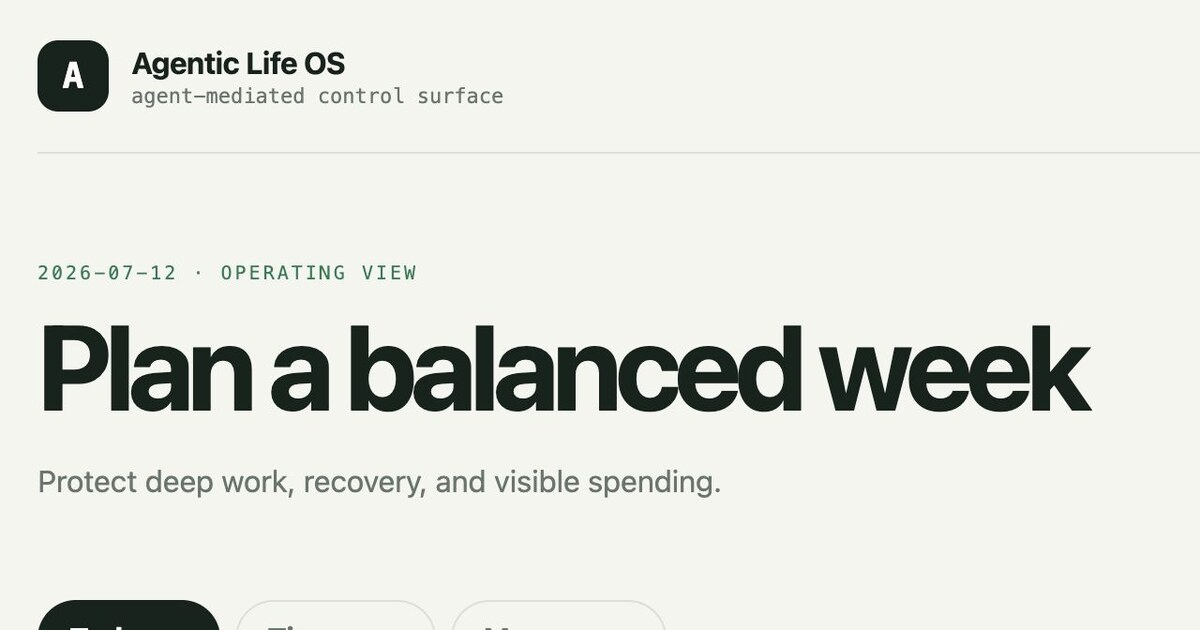
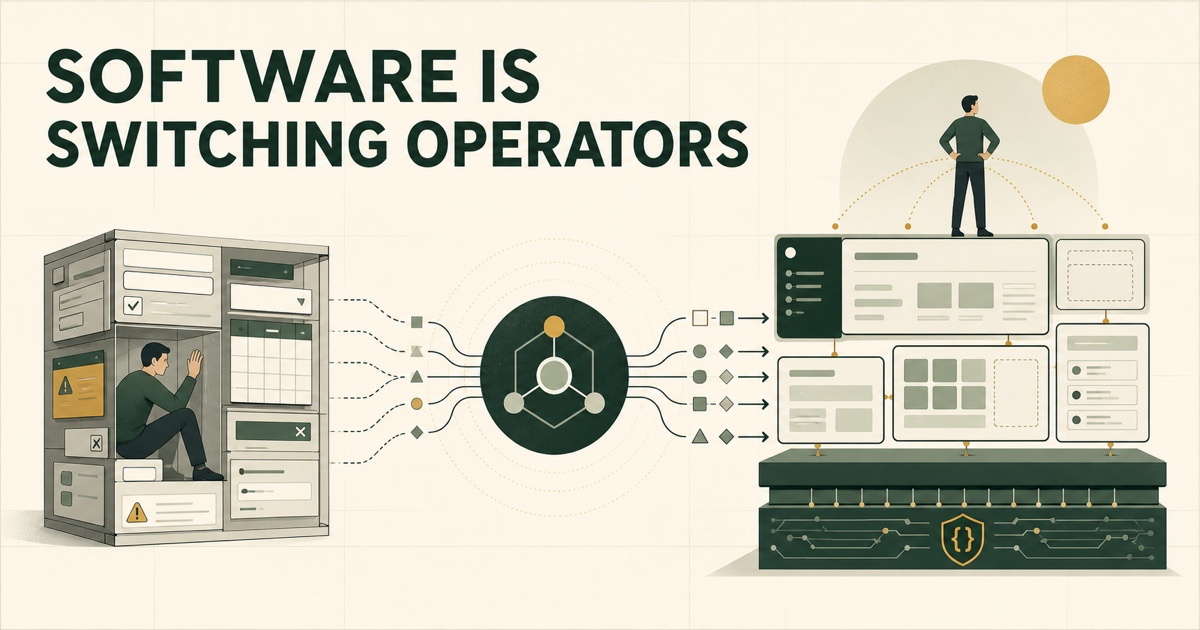
rewrite: frame life os as operator shift

diff --git a/docs/articles/agentic-life-os/index.html b/docs/articles/agentic-life-os/index.html
@@ -3,16 +3,16 @@
   <head>
     <meta charset="UTF-8" />
     <meta name="viewport" content="width=device-width, initial-scale=1.0" />
-    <title>The Interface Just Split in Two | Shawn Xiang</title>
-    <meta name="description" content="Agentic Life OS is an open-source experiment in prompt-based personal software: the human states intent, an agent operates the system, and the interface is reserved for observation and confirmation." />
-    <meta property="og:title" content="The Interface Just Split in Two" />
-    <meta property="og:description" content="Building a prompt-based personal OS where the agent handles input and the screen handles truth." />
+    <title>Software Is Switching Operators | Shawn Xiang</title>
+    <meta name="description" content="Software was designed for humans to operate through fixed interfaces. Agents change the division of labor: humans direct, agents operate, code enforces, and interfaces adapt." />
+    <meta property="og:title" content="Software Is Switching Operators" />
+    <meta property="og:description" content="Humans direct. Agents operate. Code enforces. Interfaces adapt." />
     <meta property="og:type" content="article" />
     <meta property="og:url" content="https://shawnxiang.com/articles/agentic-life-os/" />
     <meta property="og:image" content="https://shawnxiang.com/articles/agentic-life-os/images/cover.jpg" />
     <meta property="og:image:width" content="1200" />
     <meta property="og:image:height" content="630" />
-    <meta property="og:image:alt" content="Agentic Life OS synthetic Today dashboard showing the daily focus and the Today, Time, and Money modules." />
+    <meta property="og:image:alt" content="Software Is Switching Operators: humans direct, agents operate, code enforces, and interfaces adapt." />
     <meta name="twitter:card" content="summary_large_image" />
     <meta name="twitter:image" content="https://shawnxiang.com/articles/agentic-life-os/images/cover.jpg" />
     <link rel="icon" type="image/svg+xml" href="../../assets/favicon.svg" />
@@ -130,6 +130,46 @@
         width: min(1180px, calc(100% - 48px));
         margin: 0 auto 58px;
       }
+      .operator-map {
+        position: relative;
+        overflow: hidden;
+        display: grid;
+        grid-template-columns: minmax(0, .86fr) 84px minmax(0, 1.14fr);
+        gap: 22px;
+        align-items: stretch;
+        padding: 34px;
+        border: 1px solid var(--line);
+        border-radius: 26px;
+        background:
+          radial-gradient(circle at 82% 15%, rgba(47,118,85,.17), transparent 32%),
+          var(--paper);
+        box-shadow: 0 30px 90px -48px rgba(19,38,29,.55);
+      }
+      .era {
+        display: flex;
+        flex-direction: column;
+        gap: 12px;
+        padding: 24px;
+        border: 1px solid var(--line);
+        border-radius: 20px;
+        background: rgba(245,246,239,.66);
+      }
+      .era.new { background: rgba(47,118,85,.065); border-color: rgba(47,118,85,.24); }
+      .era-label { color: var(--faint); font: 500 .7rem var(--font-mono); letter-spacing: .1em; text-transform: uppercase; }
+      .era h2 { font: 700 1.35rem/1.2 var(--font-display); letter-spacing: -.02em; }
+      .node {
+        padding: 14px 15px;
+        border: 1px solid var(--line);
+        border-radius: 13px;
+        background: var(--paper);
+      }
+      .node b { display: block; font: 700 .94rem var(--font-display); }
+      .node span { display: block; color: var(--muted); font-size: .8rem; line-height: 1.45; margin-top: 3px; }
+      .node.human { border-color: rgba(215,165,63,.5); }
+      .node.agent { color: var(--paper); background: var(--accent); border-color: var(--accent); }
+      .node.agent span { color: rgba(255,255,255,.74); }
+      .map-arrow { display: grid; place-items: center; color: var(--accent); font: 500 1.55rem var(--font-mono); }
+      .map-arrow span { display: grid; place-items: center; width: 54px; height: 54px; border: 1px solid rgba(47,118,85,.25); border-radius: 50%; background: var(--accent-soft); }
       figure { margin: 0; }
       figure img {
         display: block;
@@ -257,6 +297,8 @@
         .hero { grid-template-columns: 1fr; padding-top: 62px; }
         .shell { grid-template-columns: 1fr; gap: 26px; }
         .toc { position: static; }
+        .operator-map { grid-template-columns: 1fr; }
+        .map-arrow span { transform: rotate(90deg); }
       }
       @media (max-width: 640px) {
         .nav-inner, .hero, .shell { width: calc(100% - 32px); }
@@ -276,16 +318,16 @@
         <div class="nav-links">
           <a href="../../">Home</a>
           <a href="https://github.com/qilinxiaoxiang/agentic-life-os">Code</a>
-          <a href="#try">Try it</a>
+          <a href="#proof">Proof</a>
         </div>
       </div>
     </nav>
 
     <header class="hero">
       <div>
-        <div class="eyebrow">Field Note · Agent-Mediated Software</div>
-        <h1>The Interface Just Split in Two</h1>
-        <p class="dek">Building a prompt-based personal operating system where the agent handles input and the screen handles truth.</p>
+        <div class="eyebrow">Field Note · A New Software Contract</div>
+        <h1>Software Is Switching Operators</h1>
+        <p class="dek">For decades, people operated software through interfaces someone else designed. Agents change the division of labor: humans direct, agents operate, code enforces, and interfaces adapt.</p>
         <div class="meta">
           <span class="pill">Shawn Xiang</span>
           <span class="pill">July 12, 2026</span>
@@ -293,147 +335,159 @@
         </div>
       </div>
       <aside class="split-card" aria-label="The new division of labor">
-        <h2>One system, three jobs</h2>
-        <div class="split-row"><div class="num">01</div><div><b>Human states intent</b><span>Natural language stays flexible and personal.</span></div></div>
-        <div class="split-row"><div class="num">02</div><div><b>Agent operates</b><span>Intent becomes typed, inspectable operations.</span></div></div>
-        <div class="split-row"><div class="num">03</div><div><b>Application holds truth</b><span>Code validates, stores, renders, and enforces consent.</span></div></div>
+        <h2>The new division of labor</h2>
+        <div class="split-row"><div class="num">01</div><div><b>Human directs</b><span>Set intent, judge outcomes, retain authority.</span></div></div>
+        <div class="split-row"><div class="num">02</div><div><b>Agent operates</b><span>Translate intent into structured operations.</span></div></div>
+        <div class="split-row"><div class="num">03</div><div><b>Code enforces</b><span>Protect state, permissions, and invariants.</span></div></div>
+        <div class="split-row"><div class="num">04</div><div><b>Interface adapts</b><span>Show the view this person needs now.</span></div></div>
       </aside>
     </header>
 
-    <section class="cover" aria-label="Agentic Life OS Today view">
-      <figure>
-        <img src="images/today.jpg" alt="Synthetic Agentic Life OS Today dashboard with one focus, four actionables, and Today, Time, and Money tabs." width="1280" height="978" loading="eager" />
-        <figcaption>Agentic Life OS running with synthetic demo data. This is not my personal Today Portal.</figcaption>
-      </figure>
+    <section class="cover" aria-label="The shift from human-operated interfaces to agent-operated software">
+      <div class="operator-map">
+        <div class="era">
+          <div class="era-label">The old contract</div>
+          <h2>Human-operated software</h2>
+          <div class="node human"><b>Human as operator</b><span>Navigate menus, translate reality into fields, recover from validation errors.</span></div>
+          <div class="node"><b>Fixed interface</b><span>Every permitted path was anticipated by a product team.</span></div>
+          <div class="node"><b>Application logic</b><span>Accept only the inputs the interface knows how to collect.</span></div>
+        </div>
+        <div class="map-arrow" aria-hidden="true"><span>→</span></div>
+        <div class="era new">
+          <div class="era-label">The emerging contract</div>
+          <h2>Agent-operated software</h2>
+          <div class="node human"><b>Human as commander</b><span>Define intent, reshape the system, approve consequential outcomes.</span></div>
+          <div class="node agent"><b>Agent as operator</b><span>Interpret context and execute typed, inspectable operations.</span></div>
+          <div class="node"><b>Strict core + adaptive interface</b><span>Code guards truth; the dashboard changes with the person.</span></div>
+        </div>
+      </div>
     </section>
 
     <main class="shell">
       <aside class="toc" aria-label="Table of contents">
         <div class="toc-title">Contents</div>
-        <a href="#split">1. The split</a>
-        <a href="#prompt">2. Prompt-based, not prompt-only</a>
-        <a href="#product">3. Today, Time, Money</a>
-        <a href="#loop">4. The operating loop</a>
-        <a href="#adapt">5. A model that can change</a>
-        <a href="#try">6. Run it locally</a>
-        <a href="#boundary">7. The boundary</a>
+        <a href="#assumption">1. The hidden assumption</a>
+        <a href="#operators">2. Switching operators</a>
+        <a href="#validation">3. Validation changes jobs</a>
+        <a href="#malleable">4. The interface becomes malleable</a>
+        <a href="#proof">5. A real-life proof</a>
+        <a href="#authority">6. Operation, not authority</a>
       </aside>
 
       <article>
-        <p class="lead"><strong>For most of software history, one screen did two different jobs. It collected input from the human, then presented output back to the human. AI agents make that coupling optional.</strong></p>
+        <p class="lead"><strong>Modern software was built around one hidden assumption: the human is the operator.</strong></p>
 
-        <p>A personal finance app asks you to choose a category, enter an amount, pick an account, and submit a form. A time tracker asks you to translate a messy day into the fields its product manager anticipated. A task manager asks you to maintain its ontology before it can help you use it.</p>
+        <p>A product team decides which actions exist. Designers make those actions discoverable. Engineers guard every field. Then the user learns the menus, translates reality into the product's schema, and moves the system one click at a time.</p>
 
-        <p>The friction is not the click. The friction is the translation. The person has to convert life into the application's schema before the application can do anything useful.</p>
+        <p>That assumption is breaking. Agents can now read context, choose tools, execute multi-step work, and return only when a person needs to judge, approve, or redirect. <a href="https://www.microsoft.com/en-us/worklab/ai-at-work-when-softwares-biggest-users-are-not-human">Microsoft recently described the same shift in enterprise software</a>: the human states the goal; the agent becomes the operator.</p>
 
-        <div class="thesis"><strong>The old application used the page as the universal interface. The new application can split the interface in two: conversation for input; a visual surface for observation and confirmation.</strong></div>
+        <div class="thesis"><strong>The user is moving from operator of someone else's interface to commander of a system they can reshape.</strong></div>
 
-        <h2 id="split">1. The interface just split in two</h2>
+        <h2 id="assumption">1. The interface encoded somebody else's decisions</h2>
 
-        <p>I am using <strong>Agent-Mediated Software</strong> for a strict version of this pattern:</p>
+        <p>For thirty years, “good software” meant turning a product team's model into a path a human could successfully navigate. The date picker prevented an invalid date. The dropdown constrained the category. Required fields stopped incomplete submissions. Tooltips taught the user the product's vocabulary.</p>
+
+        <p>This solved a real problem. But it also fixed the relationship between people and software: <strong>the product defined the world; the person operated inside it.</strong></p>
+
+        <p>The deeper friction was never the click. It was the translation. Before the software could help, the person had to compress a messy situation into the fields, categories, and workflows somebody else had anticipated.</p>
+
+        <h2 id="operators">2. Software is switching operators</h2>
+
+        <p>Once an agent becomes capable of operating the system, the whole contract can be rearranged:</p>
 
         <div class="formula">
-          <div><b>Input</b><span>The human describes intent in natural language.</span></div>
-          <div><b>Translation</b><span>The agent resolves that intent into typed operations.</span></div>
-          <div><b>State</b><span>Deterministic code validates and stores the result.</span></div>
-          <div><b>Output</b><span>The visual interface shows state and asks for confirmation when a change is durable.</span></div>
+          <div><b>Human</b><span>Expresses intent, supplies judgment, and remains accountable for the outcome.</span></div>
+          <div><b>Agent</b><span>Interprets context and turns intent into typed, inspectable operations.</span></div>
+          <div><b>Code</b><span>Stores truth and enforces permissions, invariants, and transaction semantics.</span></div>
+          <div><b>Interface</b><span>Presents state, evidence, alternatives, and the moments that need human approval.</span></div>
         </div>
 
-        <p>This is not “no UI.” The screen still matters. It is simply released from being the only way into the system. It can concentrate on the things screens do well: comparison, legibility, overview, and consent.</p>
+        <p>The interface no longer has to be the universal input device. The agent can become the normal write path. The screen can focus on what screens are good at: overview, comparison, legibility, and consent.</p>
 
-        <p>The ingredients have clear predecessors. <a href="https://www.agent-native.com/docs/what-is-agent-native">Agent-native software</a> treats the agent and UI as partners over shared state. <a href="https://arxiv.org/abs/2606.03854">CLI-Anything</a> argues that agents need structured, deterministic control surfaces instead of brittle pixel imitation. The narrower experiment here is the division of labor: <strong>the agent is the normal write path; the portal is the observe-and-confirm path.</strong></p>
+        <p>This is larger than adding a conversational box to an existing product. A conversational box leaves the old software contract intact. Agent-operated software changes who does the operating.</p>
 
-        <h2 id="prompt">2. Prompt-based does not mean prompt-only</h2>
+        <h2 id="validation">3. Validation did not disappear. It disappeared from the user's job description.</h2>
 
-        <p>The tempting slogan is “personal software should become prompt-based instead of code-based.” The useful version is more precise.</p>
+        <p>Date rules, account semantics, permissions, idempotency, and transaction boundaries still matter. In consequential systems, they matter more than ever. But the user should not have to encounter every invariant as a required field, a disabled button, or an error message.</p>
 
-        <p><strong>Code moves inward.</strong> It owns schemas, validation, balances, time arithmetic, idempotency, and permission boundaries. <strong>Prompts move outward.</strong> They become the layer where a person expresses what happened, changes how the system models life, and asks the agent to adapt the product.</p>
+        <p>The agent can handle ordinary normalization: resolve a relative date, map an unfamiliar phrase to a known category, ask for the one missing fact, and retry a rejected operation safely. Deterministic code still decides what is valid. Ambiguity and consequential actions still return to the human.</p>
 
-        <p>That separation matters. I do not want financial history stored as chat. I want a strict ledger. I simply do not want to fill out the ledger by hand.</p>
+        <p><strong>Code does not disappear; it changes jobs.</strong> Less code is spent choreographing every click. More code is spent defining a strict operating core that both human and agent can trust.</p>
 
-        <p>It also changes who gets to shape the product. A traditional app can only present the categories, views, and workflows its product team predicted. An agent-mediated personal system can start from a small method and let each user ask for the categories, currencies, rankings, and views that make their own life legible. The underlying code remains constrained; the model around the person can evolve.</p>
+        <p>The old “foolproof UI” was designed to keep a human operator on a predefined path. The new guardrail is a typed operation with explicit permissions, a previewable effect, and a reversible or approved commit.</p>
 
-        <h2 id="product">3. A small test: Today, Time, and Money</h2>
+        <h2 id="malleable">4. The interface becomes malleable</h2>
 
-        <p>I extracted the idea into <a href="https://github.com/qilinxiaoxiang/agentic-life-os">Agentic Life OS</a>, a local-first open-source project with only three modules:</p>
+        <p>Traditional personalization means choosing among settings the product team decided to expose. The menu may be longer, but the product still owns the model.</p>
+
+        <p>An agent-operated system can let the user say: split this category, add another currency, rank my time a different way, merge these views, or build me a dashboard for this phase of my life. The interface stops being a finished artifact and becomes a current projection of the person's context.</p>
+
+        <p>This connects to <a href="https://www.inkandswitch.com/essay/malleable-software/">Ink &amp; Switch's work on malleable software</a>: tools should adapt to people with minimal friction, instead of forcing people to adapt their workflows to sealed applications. Agents can make that adaptation available at the point of use.</p>
+
+        <p>The user should not become the full-time gardener of a private software fork. The stable core remains shared and rigorous. The flexible layer belongs to the person, and the agent absorbs the work of reshaping it.</p>
+
+        <h2 id="proof">5. I tested the paradigm on my own life</h2>
+
+        <p>I did not want to leave this as a manifesto. I extracted a system I actually use into <a href="https://github.com/qilinxiaoxiang/agentic-life-os">Agentic Life OS</a>: a privacy-clean, local-first, open-source proof with synthetic data.</p>
+
+        <figure class="shot">
+          <img src="images/today.jpg" alt="Synthetic Agentic Life OS Today dashboard with one focus, four actionables, and Today, Time, and Money tabs." width="1280" height="978" loading="lazy" />
+          <figcaption>The interface is an output surface: a current view of focus, time, and money generated from structured state. All data shown is synthetic.</figcaption>
+        </figure>
+
+        <p>The three modules are not the thesis. They are three stress tests for the new contract:</p>
 
         <div class="module-grid">
-          <div class="module"><b>Today</b><p>One daily focus and a ranked list of actionables. These changes are reversible, so the agent can write them directly.</p></div>
-          <div class="module"><b>Time</b><p>A 168-hour weekly budget, a physical-time ledger, allocation credit, and consumption rankings.</p></div>
-          <div class="module"><b>Money</b><p>Accounts, a monthly plan, and a transaction ledger with preview and explicit commit.</p></div>
+          <div class="module"><b>Today</b><p>Can an agent revise reversible state without turning the dashboard into another inbox?</p></div>
+          <div class="module"><b>Time</b><p>Can flexible interpretation coexist with a conserved physical clock and overlapping intentions?</p></div>
+          <div class="module"><b>Money</b><p>Can natural input coexist with a deterministic ledger, preview, and explicit commit?</p></div>
         </div>
 
-        <p>Today is intentionally small. A portal should not become a second life to maintain. It should answer one question quickly: what matters now?</p>
-
-        <p>Time is where a personal model becomes more interesting. One physical hour can serve two intentions. A train ride is still one hour of clock time, even if it also advances a learning budget. The system therefore keeps <strong>clock time</strong> and <strong>allocation credit</strong> separate. Its newest view ranks where the week physically went, first by meaningful category and then by the individual budget items underneath, without double-counting overlap.</p>
+        <p>The Time view demonstrates why a personal model must be adaptable. One physical hour can serve two intentions. A train ride is still one hour of clock time, even if it also advances a learning budget. The system keeps physical time and allocation credit separate, then lets the dashboard rank the same evidence at the category or item level.</p>
 
         <figure class="shot">
           <img src="images/time-ranking.jpg" alt="Synthetic Time module showing a 168-hour budget, clock time, allocation, overlap, and category consumption ranking." width="1280" height="1844" loading="lazy" />
           <figcaption>The Time view ranks physical consumption by category or item. Allocation credit can overlap; physical minutes cannot.</figcaption>
         </figure>
 
-        <p>Money is stricter. Transfers must not look like income. Refunds must not look like spending. Retrying the same agent operation must not create a duplicate. The default demo uses USD, while the schema carries a currency code so another currency can be added without pretending exchange rates are simple.</p>
+        <p>Money proves the opposite point: flexibility at the edge requires rigor at the center. Transfers must not look like income. Refunds must not look like spending. Retrying the same operation must not create a duplicate. The agent can interpret; the ledger cannot improvise.</p>
 
         <figure class="shot">
           <img src="images/money.jpg" alt="Synthetic Money module showing accounts, a monthly plan, planned expenses, and remaining budget in USD." width="1280" height="1121" loading="lazy" />
           <figcaption>The Money view uses synthetic accounts and budgets. The application stores no bank credentials and connects to no financial institution.</figcaption>
         </figure>
 
-        <h2 id="loop">4. The agent does not get a blank check</h2>
+        <h2 id="authority">6. The agent gets operation, not authority</h2>
 
-        <p>The operating loop is deliberately boring:</p>
+        <p>The operating loop is deliberately strict:</p>
 
         <ol class="loop">
-          <li><b>Observe.</b> Read Today plus the current Time and Money summaries.</li>
-          <li><b>Propose.</b> Translate raw notes into normalized operations.</li>
-          <li><b>Confirm.</b> Show the person exactly what will change.</li>
-          <li><b>Commit.</b> Apply the accepted proposal atomically.</li>
+          <li><b>Observe.</b> Read the current state and the evidence behind it.</li>
+          <li><b>Propose.</b> Translate intent into normalized, typed operations.</li>
+          <li><b>Confirm.</b> Surface ambiguity and show consequential changes before they happen.</li>
+          <li><b>Commit.</b> Apply the accepted operation atomically and leave an inspectable record.</li>
         </ol>
 
-        <p>Reversible tasks and focus changes can move immediately. Durable Time and Money entries cannot. The agent prepares a proposal; the person approves the normalized version; only then does the ledger change.</p>
+        <p>Reversible focus changes can move immediately. Durable Time and Money entries require confirmation. The agent prepares the operation; the person approves the normalized version; only then does the ledger change.</p>
 
-        <p>This is the part a pure chat interface usually misses. Natural language is flexible, but it is not a substitute for transaction semantics. The agent stays probabilistic at the edge. The ledger stays deterministic at the center.</p>
+        <p>This is not “no UI,” “no code,” or “no validation.” It is a new division of labor. Direct manipulation will remain useful for fixed, high-speed tasks. But people no longer need to be the universal operators of every system they use.</p>
 
-        <h2 id="adapt">5. Personalization becomes model revision</h2>
-
-        <p>Most personal software calls customization a settings page. An agent-mediated system can go further: it can treat the user's model as a hypothesis.</p>
-
-        <p>After a completed week or month, the agent can inspect the evidence and propose a revision:</p>
-
-        <ul>
-          <li>a recurring unbudgeted activity may deserve its own category;</li>
-          <li>a repeated overshoot may reveal a bad plan, a classification mistake, or behavior the person actually wants to change;</li>
-          <li>an unused item may need to shrink, merge, disappear, or remain protected on purpose;</li>
-          <li>a user can ask for a new currency or a new presentation without waiting for a product roadmap.</li>
-        </ul>
-
-        <p>The goal is not to make every bar green. It is to make the model more truthful. And the adaptation is never silent: the agent shows the evidence and waits for human confirmation before changing the budget itself.</p>
-
-        <h2 id="try">6. Run it locally, then make it reachable</h2>
-
-        <p>The application contains no model and no AI credentials. Bring Codex, Claude, OpenClaw, or another agent that can call an HTTP API or CLI. The default demo is synthetic and runs locally with one command:</p>
+        <p>The proof is small enough to run locally:</p>
 
         <pre><code>git clone https://github.com/qilinxiaoxiang/agentic-life-os.git
 cd agentic-life-os
 docker compose up --build</code></pre>
 
-        <p>Then open <code>http://127.0.0.1:5050</code>. Start with the demo, delete it when the model makes sense, and let an agent initialize a clean Time and Money budget from the facts you provide.</p>
+        <p>The repository includes an agent guide, typed API and CLI, synthetic demo, privacy checks, and an optional <a href="https://github.com/qilinxiaoxiang/agentic-life-os#open-it-on-your-phone-optional">private phone-access path through Tailscale</a>.</p>
 
-        <p>Phone access should not require turning a personal ledger into a public website. The repository now includes a short <a href="https://github.com/qilinxiaoxiang/agentic-life-os#open-it-on-your-phone-optional">Tailscale setup</a>: install it on the computer and phone, keep Life OS bound to localhost, and use Tailscale Serve to expose it only inside your private network. Do not use Funnel; this app has no application-level login.</p>
-
-        <h2 id="boundary">7. What this experiment does not claim</h2>
-
-        <p>Forms remain better when the schema is stable, speed matters, and ambiguity is expensive. Agents add latency, probabilistic interpretation, and a new dependency. A tax filing or wire transfer should not become casual because natural language feels easy.</p>
-
-        <p>Nor is the phrase “agent-mediated” itself new. The contribution I care about is the boundary tested in working software: agent-only normal writes, typed state, an observe-and-confirm portal, and human-governed adaptation.</p>
-
-        <div class="closing">The next personal application may not be a finished product that asks everyone to live inside the same schema. It may be a small, strict operating core that each person reshapes through an agent — while the screen simply shows the truth.</div>
+        <div class="closing">Software used to ask people to live inside a product team's schema. Agent-operated software can give each person a strict core, an agent that works on their behalf, and a dashboard they can reshape as their life changes.</div>
 
         <h2 id="sources">Sources and code</h2>
         <ul class="source-list">
           <li><a href="https://github.com/qilinxiaoxiang/agentic-life-os">Agentic Life OS</a> — source, synthetic demo, REST API, JSON CLI, OpenAPI contract, agent guide, privacy checks, and MIT license.</li>
-          <li><a href="https://www.agent-native.com/docs/what-is-agent-native">What Is Agent-Native?</a> — agent and UI as partners over shared actions, state, and databases.</li>
-          <li><a href="https://arxiv.org/abs/2606.03854">CLI-Anything: Towards Agent-Native Computer Use</a> — structured, deterministic interfaces for agent control rather than GUI imitation.</li>
+          <li><a href="https://www.microsoft.com/en-us/worklab/ai-at-work-when-softwares-biggest-users-are-not-human">When software's biggest users aren't human</a> — agents becoming primary operators while interfaces become review and handoff surfaces.</li>
+          <li><a href="https://www.inkandswitch.com/essay/malleable-software/">Malleable Software</a> — restoring user agency by making tools adaptable at the point of use.</li>
+          <li><a href="https://www.microsoft.com/en-us/research/publication/web-agents-should-use-typed-actions-instead-of-click-based-browsing/">Web Agents Should Use Typed Actions Instead of Click-Based Browsing</a> — typed, inspectable operations as an agent control surface.</li>
           <li><a href="https://tailscale.com/docs/reference/tailscale-cli/serve">Tailscale Serve</a> — private tailnet access to a localhost service.</li>
         </ul>
       </article>

diff --git a/docs/app.js b/docs/app.js
@@ -126,9 +126,9 @@ const content = {
     writingIndexText: "View all field notes",
     writing: [
       {
-        title: "The Interface Just Split in Two",
-        body: "Personal software used to make one page collect input and present output. Agentic Life OS tests a stricter split: the human states intent, the agent operates, and the portal is reserved for observation and confirmation.",
-        meta: "July 2026 · Agent-Mediated Software",
+        title: "Software Is Switching Operators",
+        body: "Humans were the assumed operators of software. Agents change the contract: people direct, agents operate, code enforces, and interfaces adapt.",
+        meta: "July 2026 · Agent-Operated Software",
         link: "./articles/agentic-life-os/",
         linkText: "Read the field note →"
       },
@@ -318,9 +318,9 @@ const content = {
     writingIndexText: "查看全部文章",
     writing: [
       {
-        title: "The Interface Just Split in Two",
-        body: "传统软件让同一个页面既收集输入、又呈现输出。Agentic Life OS 把两者拆开：人表达意图，Agent 操作系统，Portal 只负责观察与确认。英文长文。",
-        meta: "2026.07 · Agent-Mediated Software",
+        title: "Software Is Switching Operators",
+        body: "软件正在更换操作者：人从别人预定义界面的操作员，变成自己定义系统的指挥官；Agent 负责操作，code 负责约束，界面负责适配。英文长文。",
+        meta: "2026.07 · Agent-Operated Software",
         link: "./articles/agentic-life-os/",
         linkText: "阅读文章 →"
       },

diff --git a/docs/articles/index.html b/docs/articles/index.html
@@ -4,7 +4,7 @@
     <meta charset="UTF-8" />
     <meta name="viewport" content="width=device-width, initial-scale=1.0" />
     <title>Field Notes | Shawn Xiang</title>
-    <meta name="description" content="Field notes by Shawn Xiang on agent-mediated software, forward-deployed AI engineering, AI deployment, and practical systems work." />
+    <meta name="description" content="Field notes by Shawn Xiang on agent-operated software, forward-deployed AI engineering, AI deployment, and practical systems work." />
     <link rel="icon" type="image/svg+xml" href="../assets/favicon.svg" />
     <link rel="preconnect" href="https://fonts.googleapis.com" />
     <link rel="preconnect" href="https://fonts.gstatic.com" crossorigin />
@@ -147,9 +147,9 @@
       <p class="intro">A compact archive for essays, playbooks, and field methods. The homepage stays focused; this page can grow as the writing library grows.</p>
       <section class="article-list" aria-label="Field notes">
         <a class="article-card" href="./agentic-life-os/">
-          <div class="article-meta">July 2026 · Agent-Mediated Software</div>
-          <h2>The Interface Just Split in Two</h2>
-          <p>Personal software used to make one page collect input and present output. Agentic Life OS tests a stricter split: the human states intent, the agent operates, and the portal is reserved for observation and confirmation.</p>
+          <div class="article-meta">July 2026 · Agent-Operated Software</div>
+          <h2>Software Is Switching Operators</h2>
+          <p>Humans were the assumed operators of software. Agents change the contract: people direct, agents operate, code enforces, and interfaces adapt.</p>
           <span class="read-link">Read the field note -></span>
         </a>
         <a class="article-card" href="./hospital-lean-fde-lens/">